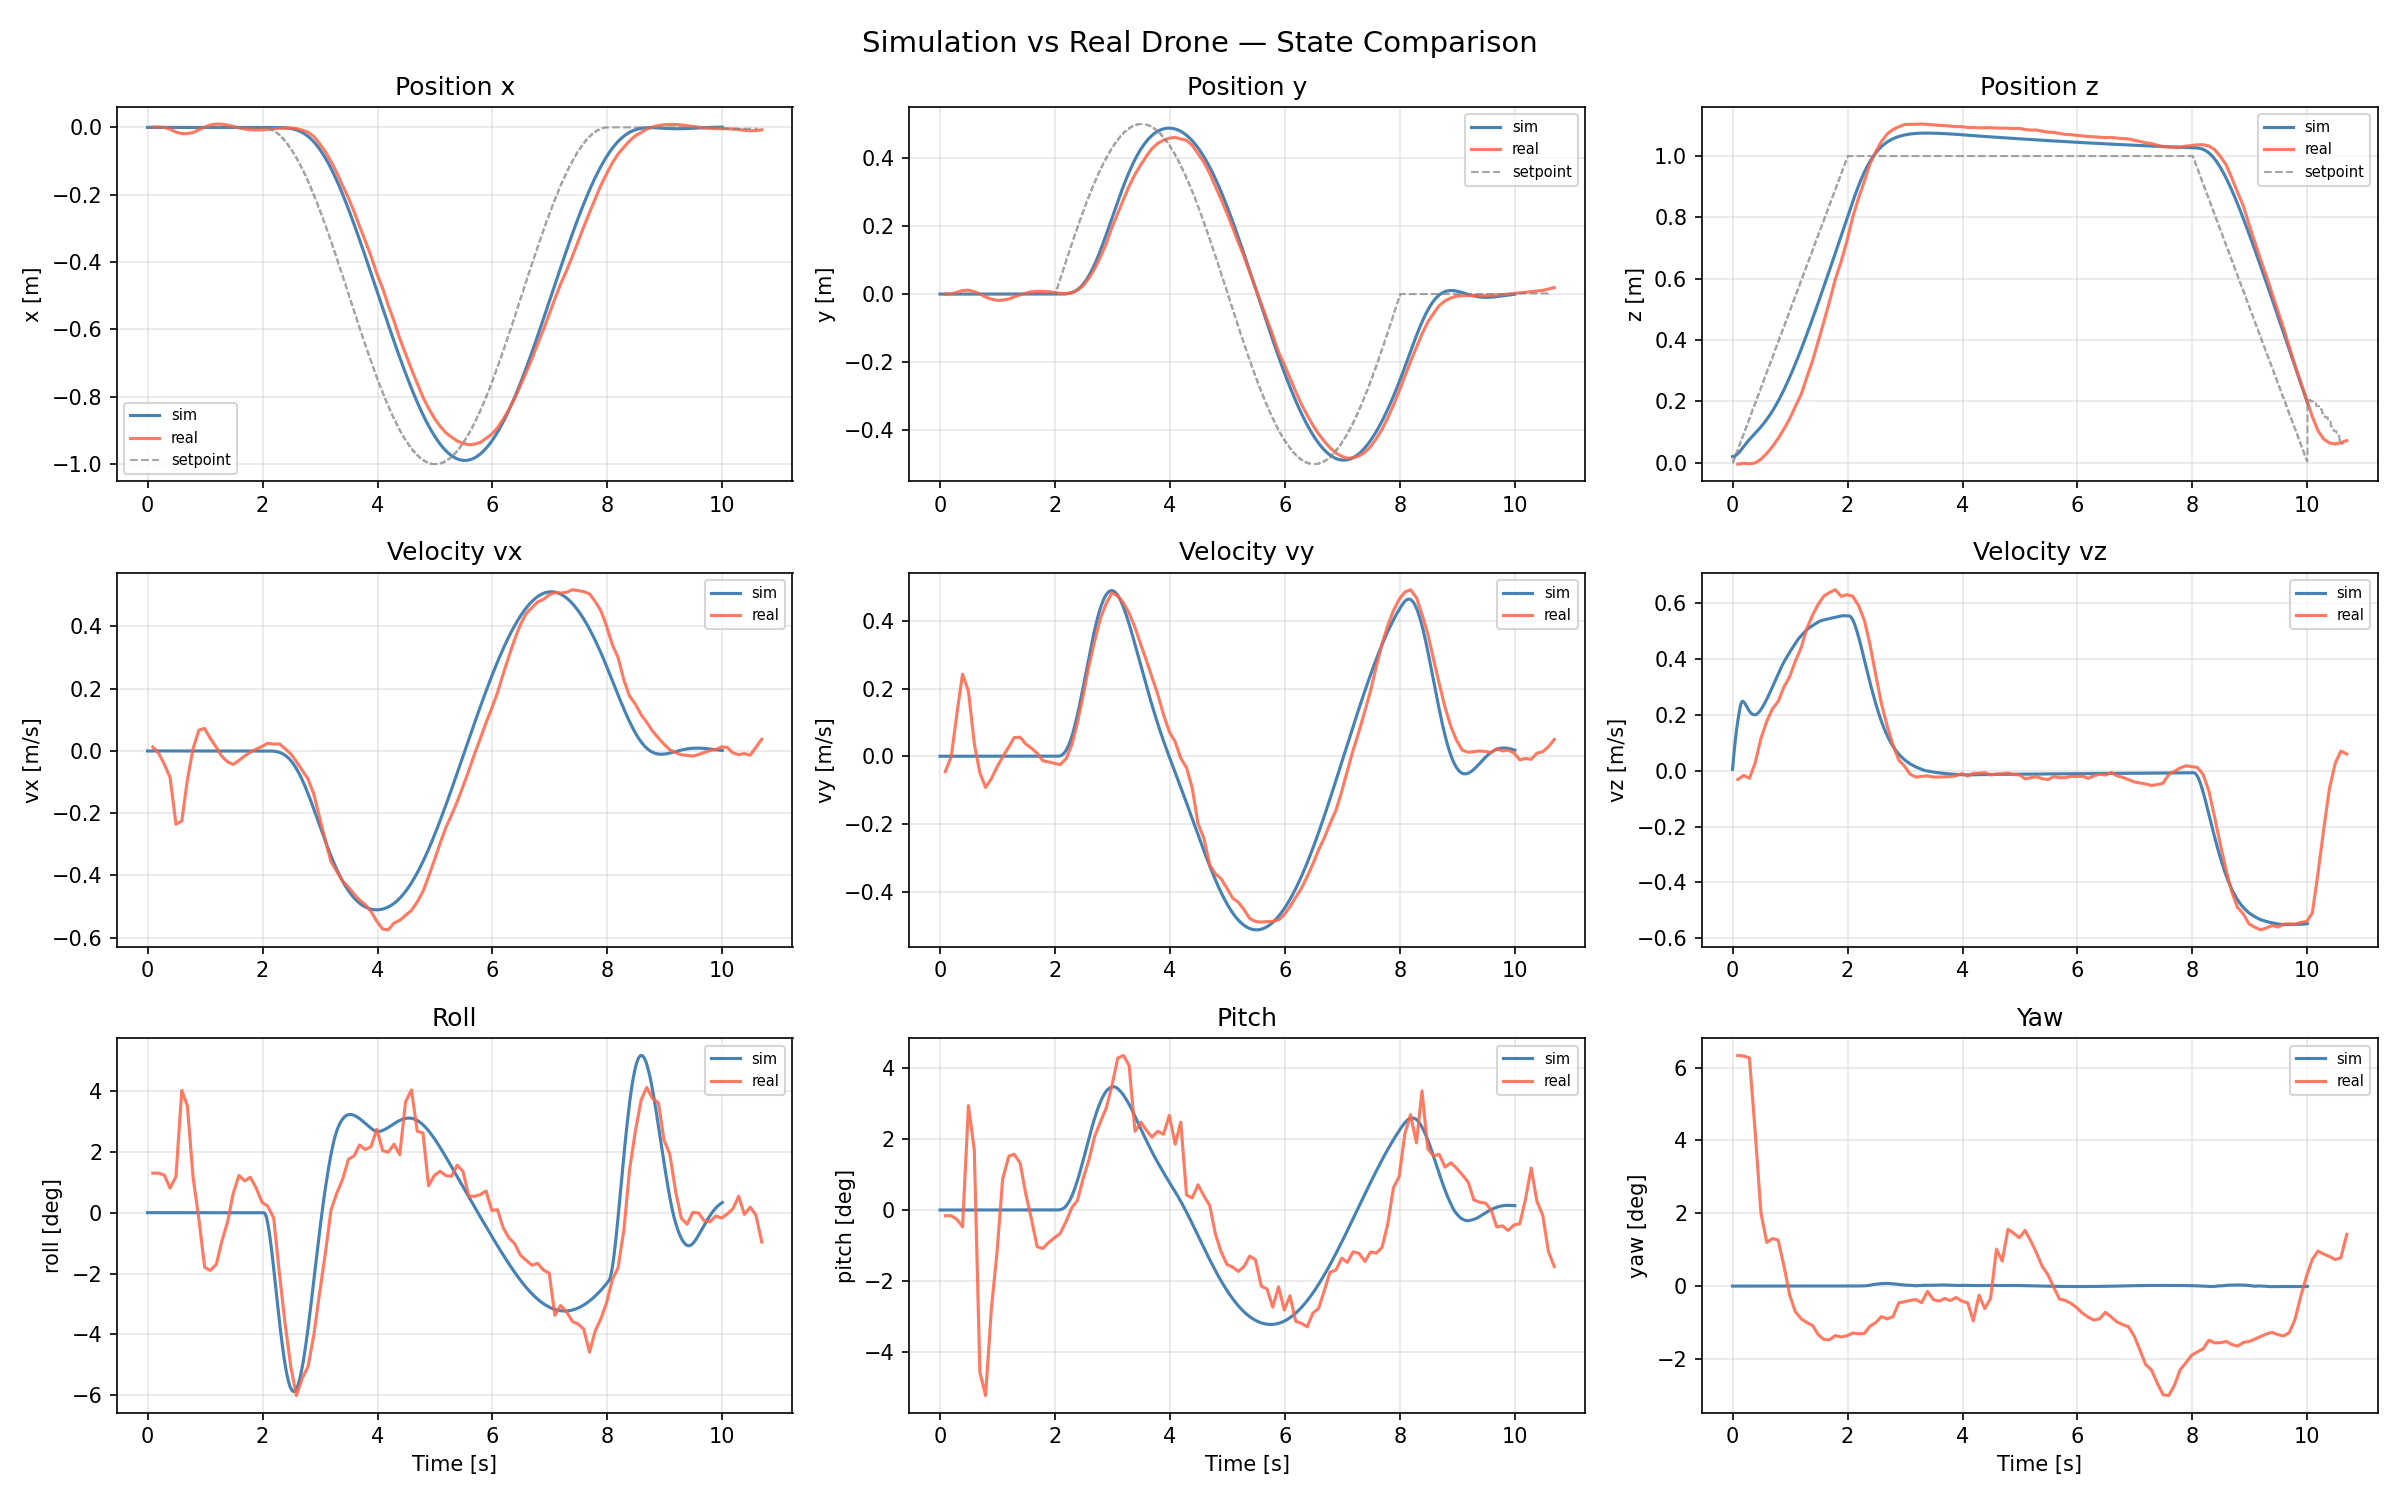
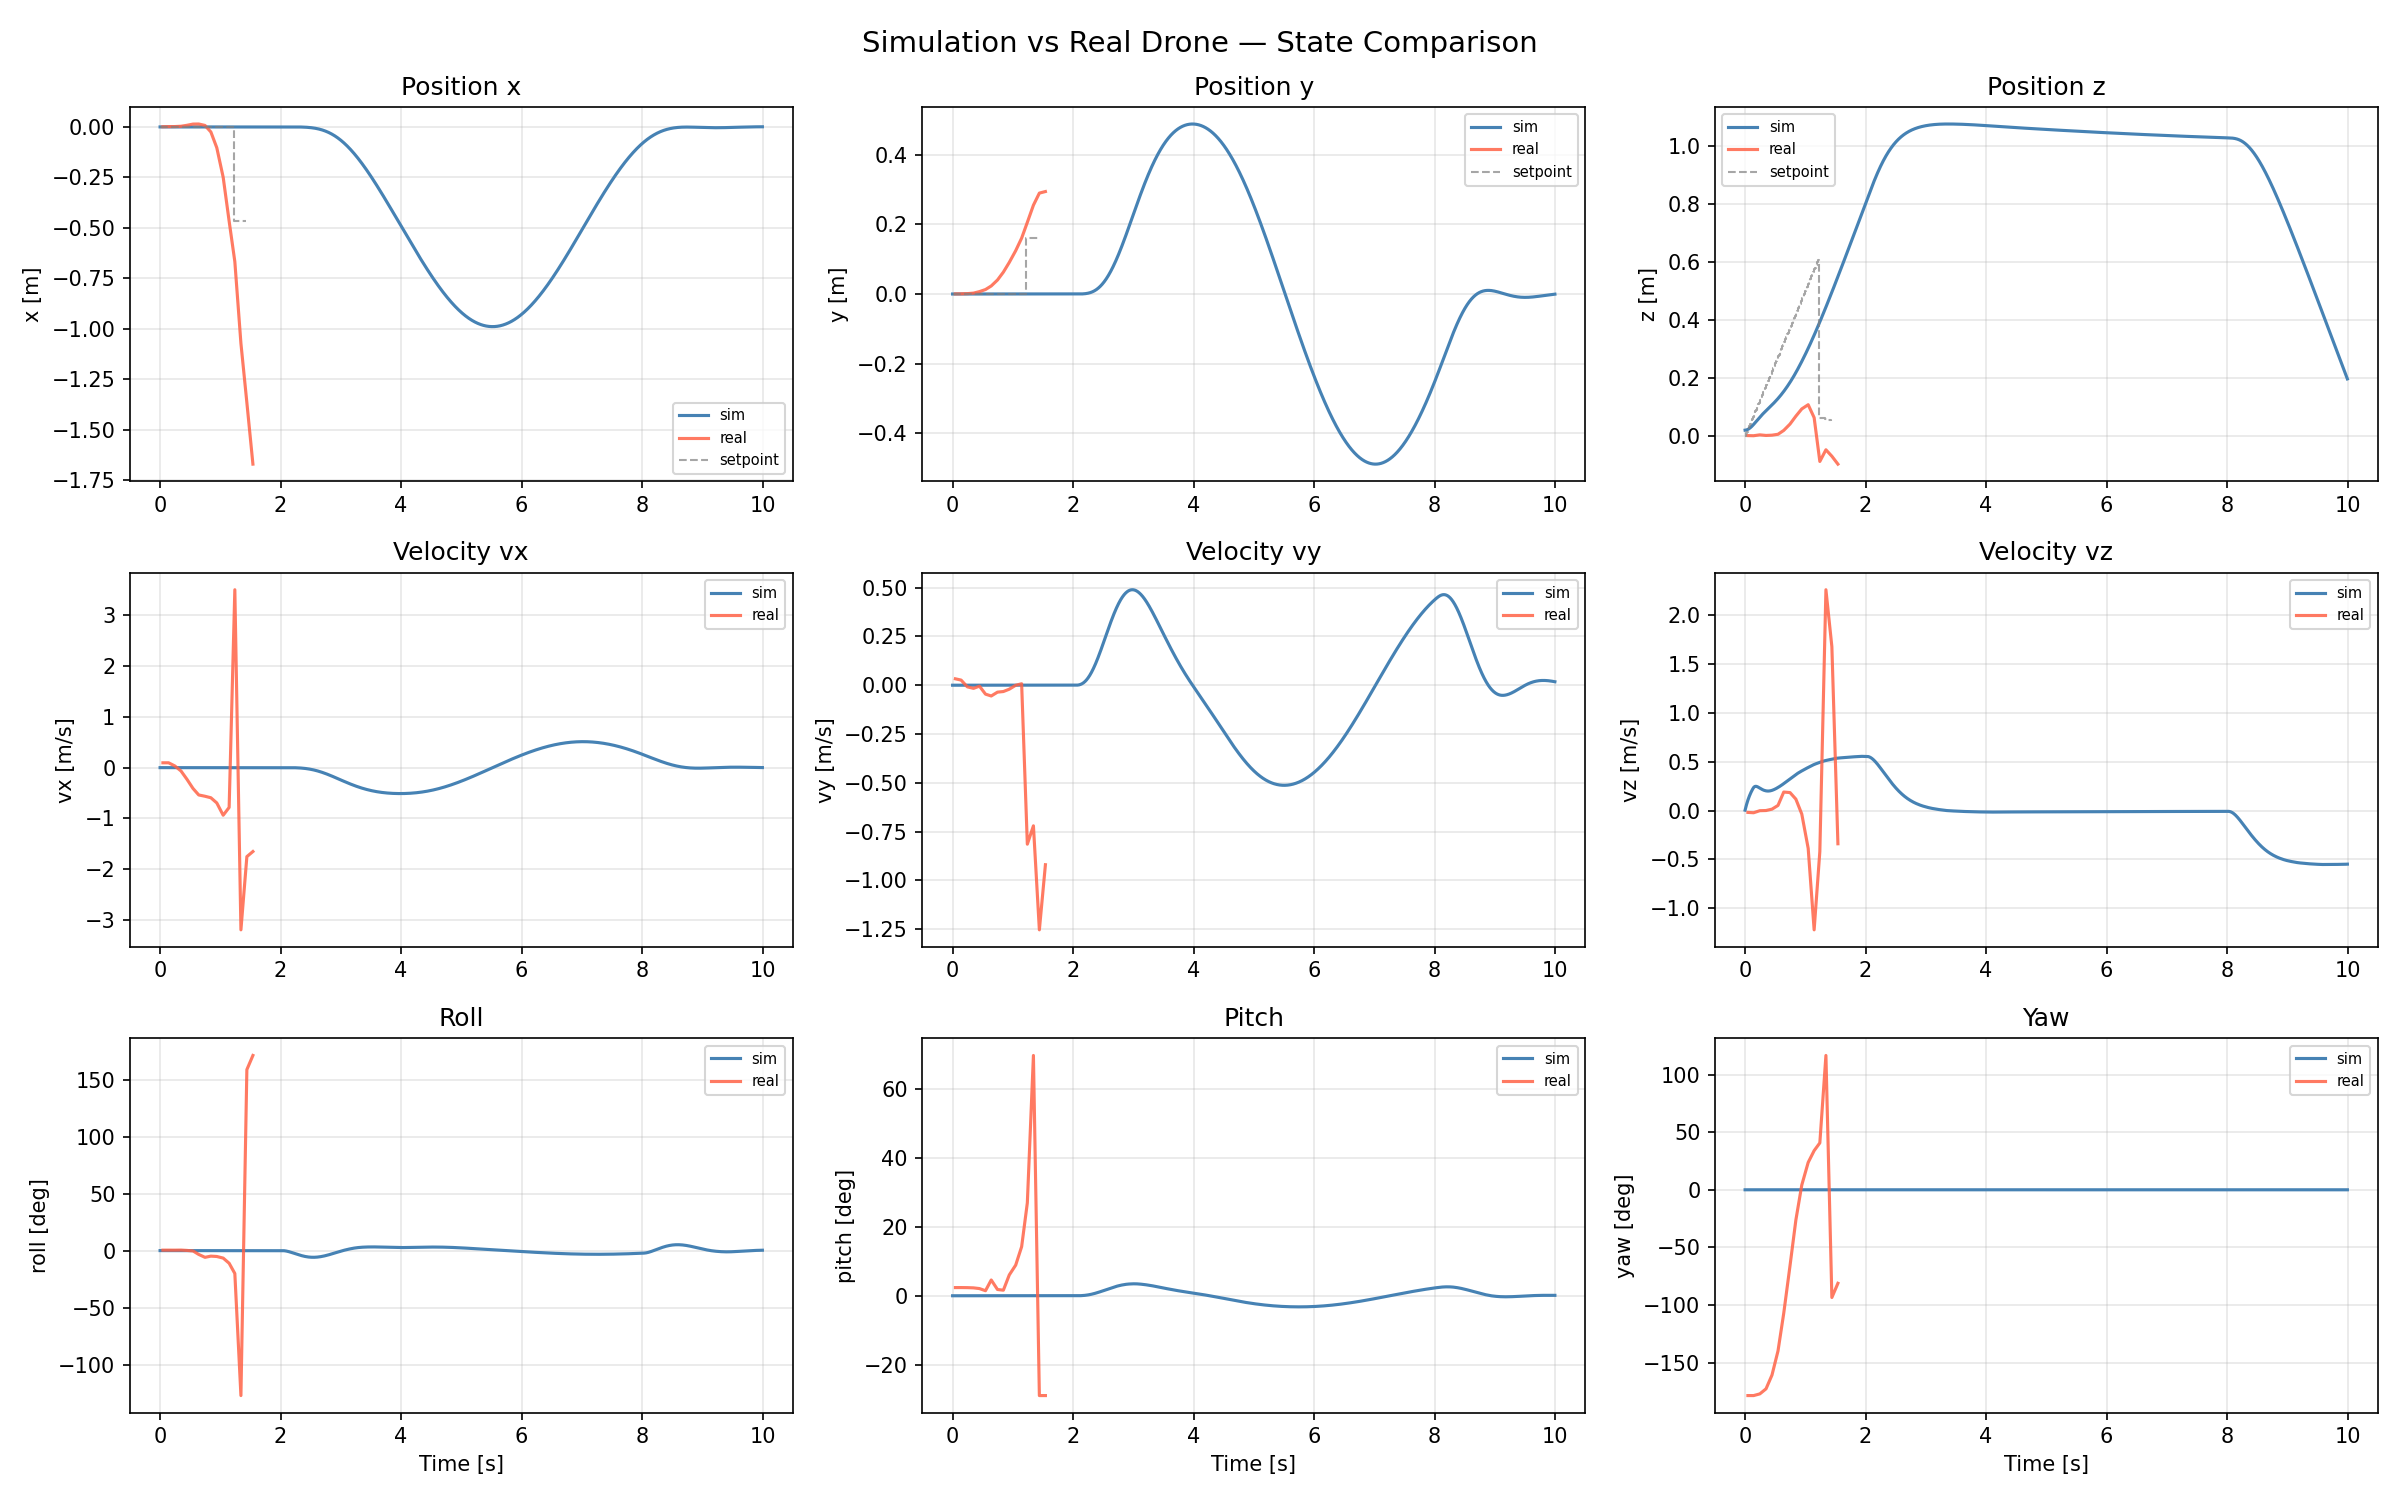
added radio safety

diff --git a/circle_comparison_simu_and_real/cf_firmware_pid_sim.py b/circle_comparison_simu_and_real/cf_firmware_pid_sim.py
@@ -1041,6 +1041,67 @@ def run_real(uri="radio://0/80/2M/E7E7E7E7E7",
         cf = scf.cf
         print("[REAL] Connected!")
 
+        # ─── Radio link health monitoring ─────────────────────────────
+        # The Crazyradio reports link quality (0-100 %) periodically and
+        # fires connection_lost / disconnected on hard radio failures
+        # (e.g. "Too many packets lost" from the cflib radio driver).
+        #
+        # We use these to:
+        #   1. log every degradation / loss event
+        #   2. trigger a preemptive controlled descent when the link
+        #      stays below LINK_QUALITY_ABORT_PCT for too long, before
+        #      cflib gives up entirely.
+        LINK_QUALITY_WARN_PCT  = 70.0   # transient warning threshold
+        LINK_QUALITY_ABORT_PCT = 40.0   # sustained → abort to landing
+        LINK_BAD_ABORT_SEC     = 0.5    # how long to stay below abort
+
+        link_status = {
+            'quality':      100.0,
+            'lost':         False,    # True after connection_lost callback
+            'disconnect':   False,    # True after disconnected callback
+            'reason':       None,     # error message from connection_lost
+            'bad_since':    None,     # time.time() when quality first dropped
+            'warn_active':  False,
+            'n_low_events': 0,
+            'min_quality':  100.0,
+        }
+
+        def _link_quality_cb(percent):
+            link_status['quality'] = percent
+            if percent < link_status['min_quality']:
+                link_status['min_quality'] = percent
+
+            now = time.time()
+            if percent < LINK_QUALITY_ABORT_PCT:
+                if link_status['bad_since'] is None:
+                    link_status['bad_since'] = now
+            else:
+                link_status['bad_since'] = None
+
+            if percent < LINK_QUALITY_WARN_PCT:
+                if not link_status['warn_active']:
+                    link_status['warn_active'] = True
+                    link_status['n_low_events'] += 1
+                    print(f"[LINK] WARNING: link quality dropped to "
+                          f"{percent:.0f}%")
+            else:
+                if link_status['warn_active']:
+                    print(f"[LINK] Link quality recovered ({percent:.0f}%)")
+                    link_status['warn_active'] = False
+
+        def _connection_lost_cb(uri_str, msg):
+            link_status['lost']   = True
+            link_status['reason'] = msg
+            print(f"[LINK] *** CONNECTION LOST *** {uri_str} — {msg}")
+
+        def _disconnected_cb(uri_str):
+            link_status['disconnect'] = True
+            print(f"[LINK] Disconnected from {uri_str}")
+
+        cf.link_quality_updated.add_callback(_link_quality_cb)
+        cf.connection_lost.add_callback(_connection_lost_cb)
+        cf.disconnected.add_callback(_disconnected_cb)
+
         # ─── Estimator & external-position configuration ──────────────
         # Force the Kalman filter (required for mocap-based localization)
         # and set the standard deviation of the incoming extpose packets.
@@ -1199,6 +1260,20 @@ def run_real(uri="radio://0/80/2M/E7E7E7E7E7",
 
         try:
             for i in range(len(waypoints)):
+                # ─── Link health check ────────────────────────────
+                if link_status['lost'] or link_status['disconnect']:
+                    print(f"[REAL] Aborting flight loop — link lost "
+                          f"(reason: {link_status['reason']}).")
+                    break
+                if (link_status['bad_since'] is not None
+                        and (time.time() - link_status['bad_since'])
+                            > LINK_BAD_ABORT_SEC):
+                    print(f"[REAL] Aborting flight loop — link quality "
+                          f"≤ {LINK_QUALITY_ABORT_PCT:.0f}% for "
+                          f">{LINK_BAD_ABORT_SEC*1000:.0f} ms "
+                          f"(now {link_status['quality']:.0f}%).")
+                    break
+
                 t_iter_wall = time.time()
                 sp = waypoints[i]
                 sp_pos = sp[0:3]
@@ -1234,41 +1309,71 @@ def run_real(uri="radio://0/80/2M/E7E7E7E7E7",
 
             # ─── Smooth landing ───────────────────────────────
             # Descend from current position to ~5 cm, then cut motors.
-            land_x = drone_state['x']
-            land_y = drone_state['y']
-            land_z = drone_state['z']
-            land_duration = max(1.0, land_z / 0.3)  # descend at ~0.3 m/s
-            land_freq = 20  # Hz — position setpoints don't need high rate
-            land_steps = int(land_freq * land_duration)
-            cutoff_z = 0.05  # m — cut motors below this height
+            # Skip the active descent if the radio link is already gone —
+            # the firmware will hit its commander watchdog (~500 ms) on its
+            # own; trying to send packets only triggers more error logs.
+            link_dead = link_status['lost'] or link_status['disconnect']
+            if link_dead:
+                print(f"[REAL] Skipping smooth landing — link is down "
+                      f"(reason: {link_status['reason']}). Firmware watchdog "
+                      f"will idle the motors.")
+            else:
+                land_x = drone_state['x']
+                land_y = drone_state['y']
+                land_z = drone_state['z']
+                land_duration = max(1.0, land_z / 0.3)  # descend at ~0.3 m/s
+                land_freq = 20  # Hz — position setpoints don't need high rate
+                land_steps = int(land_freq * land_duration)
+                cutoff_z = 0.05  # m — cut motors below this height
 
-            print(f"[REAL] Landing from z={land_z:.2f}m over {land_duration:.1f}s...")
+                print(f"[REAL] Landing from z={land_z:.2f}m over "
+                      f"{land_duration:.1f}s...")
 
-            land_start = time.time()
-            for j in range(land_steps):
-                frac = (j + 1) / land_steps
-                # Smooth cubic descent
-                z = land_z * (1.0 - (3 * frac**2 - 2 * frac**3))
-                if z < cutoff_z:
-                    break
-                real_sp_log.append({'t': time.time() - flight_start,
-                                    'pos': np.array([land_x, land_y, z])})
-                cf.commander.send_position_setpoint(land_x, land_y, z, 0.0)
-                time.sleep(1.0 / land_freq)
+                for j in range(land_steps):
+                    if link_status['lost'] or link_status['disconnect']:
+                        print("[REAL] Link died during landing — aborting "
+                              "descent loop.")
+                        break
+                    frac = (j + 1) / land_steps
+                    # Smooth cubic descent
+                    z = land_z * (1.0 - (3 * frac**2 - 2 * frac**3))
+                    if z < cutoff_z:
+                        break
+                    real_sp_log.append({'t': time.time() - flight_start,
+                                        'pos': np.array([land_x, land_y, z])})
+                    try:
+                        cf.commander.send_position_setpoint(land_x, land_y, z, 0.0)
+                    except Exception as e:
+                        print(f"[REAL] send_position_setpoint failed: {e}")
+                        break
+                    time.sleep(1.0 / land_freq)
 
-            # Notify end of setpoints — this tells the firmware the PC-side
-            # commander is stopping cleanly, rather than vanishing (watchdog
-            # timeout).  The firmware then idles the motors gracefully without
-            # entering a hard-locked state that would require a power cycle.
-            cf.commander.send_notify_setpoint_stop()
-            time.sleep(0.1)
+                # Notify end of setpoints — tells the firmware the PC-side
+                # commander is stopping cleanly, so it idles the motors
+                # gracefully instead of hard-locking on watchdog timeout.
+                try:
+                    cf.commander.send_notify_setpoint_stop()
+                except Exception:
+                    pass
+                time.sleep(0.1)
 
-            log_state.stop()
-            log_att.stop()
+            try:
+                log_state.stop()
+                log_att.stop()
+            except Exception:
+                pass
 
             # Stop OptiTrack streaming thread cleanly
             mocap_stop.set()
             mocap_thread.join(timeout=2.0)
+
+            # ─── Link health summary ──────────────────────────
+            print(f"[LINK] Summary — min_quality={link_status['min_quality']:.0f}%  "
+                  f"low_quality_events={link_status['n_low_events']}  "
+                  f"connection_lost={link_status['lost']}  "
+                  f"disconnected={link_status['disconnect']}")
+            if link_status['reason']:
+                print(f"[LINK] Failure reason: {link_status['reason']}")
 
             print("[REAL] Landed and cleaned up.")
 
@@ -1340,9 +1445,9 @@ MODES:
     parser.add_argument('--natnet-server-ip', default='192.168.0.24',
                         help='IP address of the Motive PC / NatNet server '
                              '(default: 192.168.0.24)')
-    parser.add_argument('--natnet-client-ip', default='192.168.0.100',
+    parser.add_argument('--natnet-client-ip', default='192.168.0.56', # 192.168.0.100 if ethernet, 192.168.0.56 if wifi on TPLink-A2BC
                         help='IP address of this PC on the OptiTrack network '
-                             '(default: 192.168.0.100)')
+                             '(default: 192.168.0.56)')
     parser.add_argument('--natnet-unicast', action='store_true',
                         help='Use unicast instead of multicast (default: multicast)')
     parser.add_argument('--rigid-body-id', default=4, type=int,
